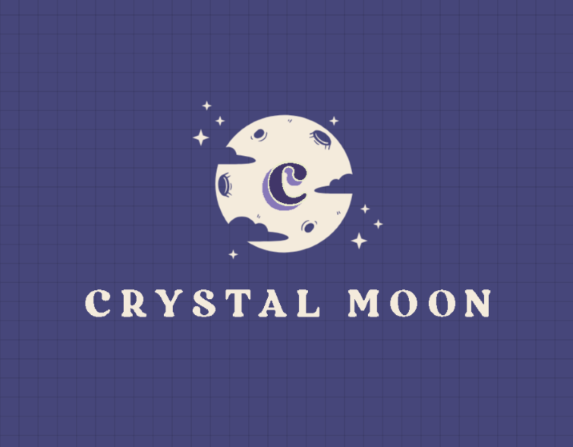
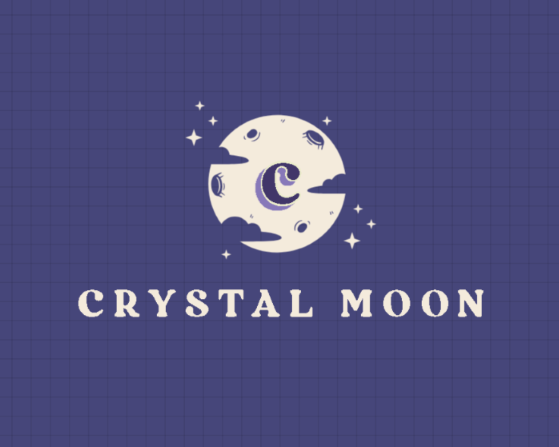
style: Correção de tamanhos

diff --git a/assets/style.css b/assets/style.css
@@ -16,20 +16,22 @@
             background-color: var(--background-color-light-2);
         }
 
-        & #logo {
+        & .logo {
             background-color: var(--background-color-dark);
 
             & img {
                 mix-blend-mode: lighten;
+            object-fit: cover;  
+
             }
         }
     }
 
 }
 
-#logo {
+.logo {
     width: 80%;
-
+   
     & img {
         width: 100%;
         mix-blend-mode: lighten;
@@ -44,14 +46,18 @@
 
     & #write {
         background-color: var(--background-color-light-2);
-        & textarea#new {
+        & #new {
         caret-color: var(--background-color-light);
         color: var(--background-color-dark);
     }
     }
 
-    & #logo {
+    & #logoescura {
         background-color: var(--background-color-dark);
+        
+        & #darklogo{
+            object-fit: cover;
+        }
 
     }
 
@@ -65,17 +71,19 @@
     & #write {
         background-color: var(--textarea-div-color-light);
         
-        & textarea#new {
+        & #new {
         color: var(--background-color-light-2);
         caret-color: var(--background-color-light);
         }
     }
 
-    & #logo {
+    & #logoclara {
         background-color: var(--background-color-light);
 
         & #lightlogo {
             mix-blend-mode: normal;
+            object-fit: cover;
+
         }
 
     }
@@ -123,6 +131,7 @@ body {
 
 
 #wrapper {
+    height: max-content;
     display: flex;
     flex-direction: column;
     align-items: center;
@@ -136,6 +145,7 @@ body {
     align-items: center;
     border-radius: 2%;
     height: 6rem;
+    width: 100%;
 
 
     & img {
@@ -143,23 +153,24 @@ body {
     }
 
     & #write {
-        width: 100%;
+        width: 80%;
         display: flex;
         justify-content: center;
         border-radius: 1rem;
-        padding: 0.5rem;
+        padding-inline: 1rem;
+        padding-block: 0.5rem;
+        height: 2rem;
 
-
-        & textarea#new {
+        & #new {
             font-size: 18px;
-            height: 3rem;
+            width: 100%;
             background-color: transparent;
             border: none;
             overflow: hidden;
             
         }
 
-        & textarea#new:focus {
+        & #new:focus {
             outline: none !important;
 
 

diff --git a/index.html b/index.html
@@ -1,26 +1,33 @@
 <!DOCTYPE html>
 <html lang="pt-br">
+
 <head>
     <meta charset="UTF-8">
     <meta name="viewport" content="width=device-width, initial-scale=1.0">
     <title>Crystal-Moon</title>
     <link rel="stylesheet" href="assets/style.css" type="text/css">
 </head>
-<body id="corpo" >
+
+<body id="corpo">
     <button id="darkLight" type="button" onclick="change()">Modo</button>
     <!-- <input type="checkbox" id="modo"> -->
     <div id="wrapper">
-        <div id="logo">
+
+        <div class="logo" id="logoescura">
             <img id="darklogo" src="assets/images/escuro.png" alt="">
+        </div>
+        <div class="logo" id="logoclara">
             <img id="lightlogo" src="assets/images/claro.png" alt="">
         </div>
         <div id="input-div">
             <div id="write">
-                <textarea name="novo-sonho" id="new" cols="35" rows="1"></textarea>
+                <!-- <textarea name="novo-sonho" id="new" cols="35" rows="1"></textarea> -->
+                <input type="text" id="new" name="novo-sonho" placeholder="Descreva seu sonho">
             </div>
             <img src="assets/images/Frame 5.png" alt="">
         </div>
     </div>
 </body>
 <script src="main.js"></script>
+
 </html>
